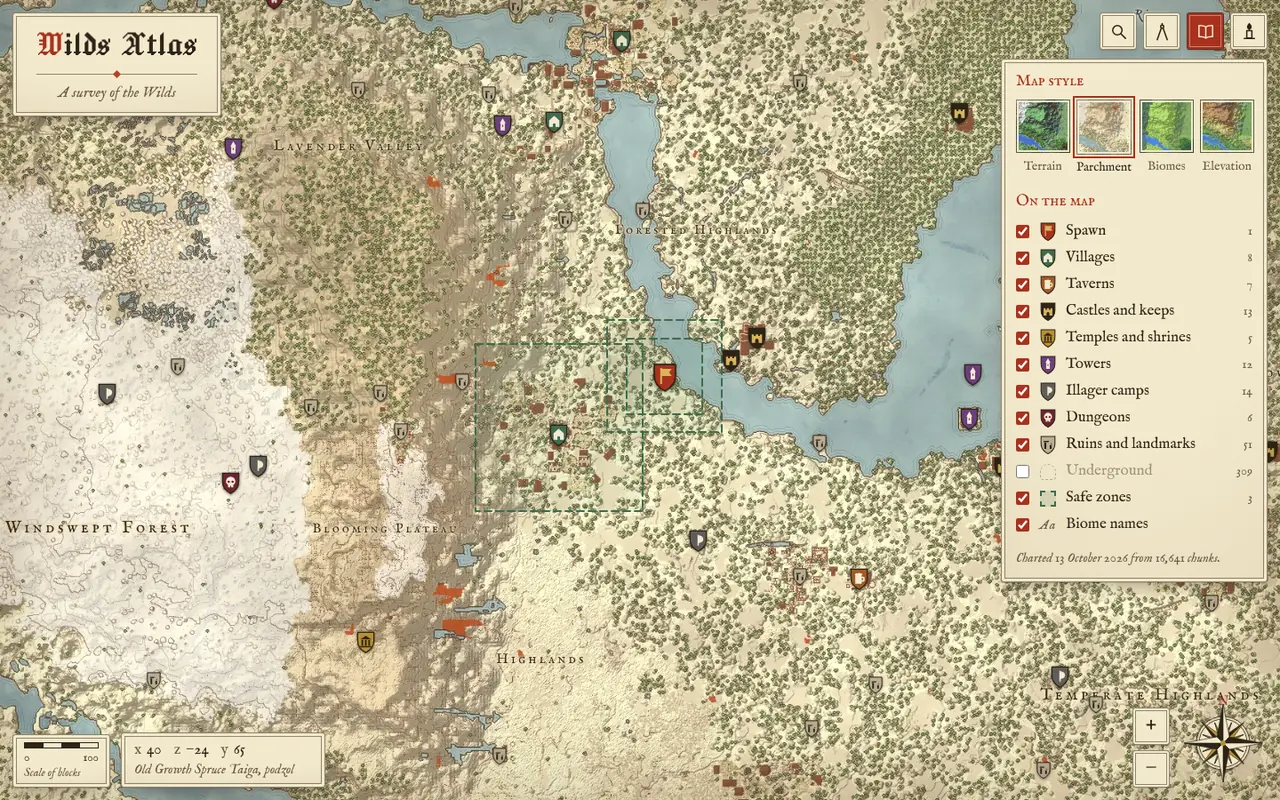
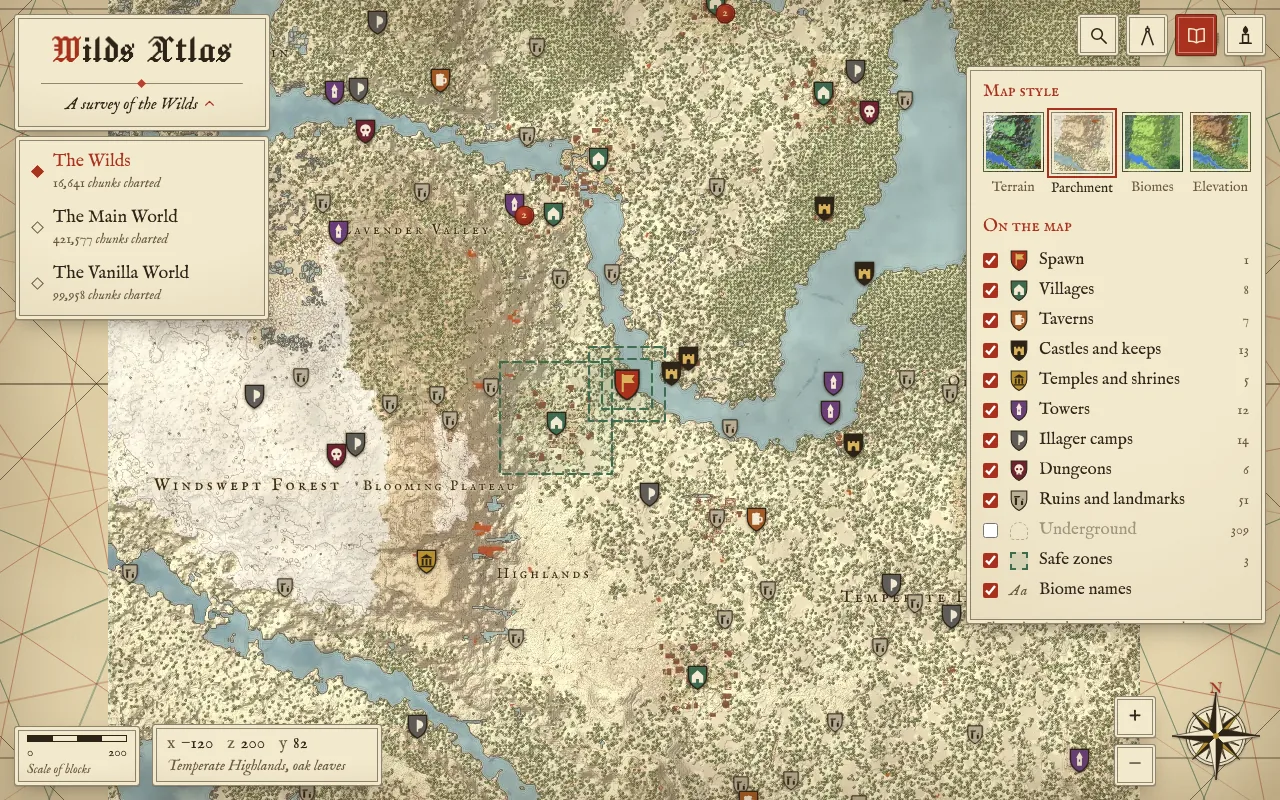
Map all three worlds, with a world menu and a nightly task
- config.toml lists the Wilds, the Main World (TerraformGenerator, sea level 62) and the Vanilla World
- The subtitle under the title opens a menu of the worlds; links name the world (#main/x/z/zoom/style)
- schedule.bat registers a "Wilds Atlas" Windows task that publishes every world at 04:30 each night, without a window, logging to cache/nightly.log
- Heightmap entry width is read from each chunk, so worlds of any height scan correctly
- Proper names for ocean monuments, badlands mineshafts, cold and warm ocean ruins and beached shipwrecks
- Map key previews show land near spawn, or the fullest tile when spawn sits at an edge
- Map data for all three worlds (538,176 chunks)

Claude-Session: https://claude.ai/code/session_01GmA17Z5FQHq4ACirFwPJaQ

diff --git a/web/src/ui.ts b/web/src/ui.ts
@@ -60,13 +60,33 @@ export function ui(atlas: Atlas) {
   $('t-measure').onclick = () => ruler.toggle()
   search(atlas, $<HTMLInputElement>('q'), $('results'), () => openFind(false))
 
-  const nav = $('worlds')
-  nav.hidden = index.worlds.length < 2
-  nav.innerHTML = index.worlds.map((w) => `<button type="button" data-id="${esc(w.id)}">${esc(w.name)}</button>`).join('')
-  nav.onclick = (e) => {
-    const id = (e.target as HTMLElement).closest('button')?.dataset.id
-    if (id) atlas.open(id)
+  // the subtitle names the world on show and opens the list of worlds; the names share a grid cell so the width holds
+  const realm = $('realm'), menu = $('worlds'), many = index.worlds.length > 1
+  const survey = (name: string) => index.subtitle.replace('{world}', name.replace(/^The /, 'the '))
+  const stack = `<span class="stack"><span class="on">${realm.innerHTML}</span>` +
+    index.worlds.map((w) => `<span data-id="${esc(w.id)}">${esc(survey(w.name))}${many ? ICON.chevron : ''}</span>`).join('') + '</span>'
+  realm.innerHTML = many ? `<button type="button" aria-expanded="false" aria-controls="worlds" title="Choose a world">${stack}</button>` : stack
+  menu.innerHTML = index.worlds.map((w) =>
+    `<li><button type="button" data-id="${esc(w.id)}">${esc(w.name)}<small>${num(w.chunks)} chunks charted</small></button></li>`).join('')
+  const pick = realm.querySelector('button')
+  const list = (open: boolean) => {
+    menu.hidden = !open
+    pick?.setAttribute('aria-expanded', String(open))
   }
+  if (pick) pick.onclick = () => list(menu.hidden !== false)
+  menu.onclick = (e) => {
+    const id = (e.target as HTMLElement).closest('button')?.dataset.id
+    if (!id) return
+    list(false)
+    pick?.focus()
+    atlas.open(id)
+  }
+  addEventListener('pointerdown', (e) => !menu.hidden && !realm.parentElement!.contains(e.target as Node) && list(false))
+  addEventListener('keydown', (e) => {
+    if (e.key !== 'Escape' || menu.hidden) return
+    list(false)
+    pick?.focus()
+  })
 
   const styles = $('styles')
   styles.onclick = (e) => {
@@ -89,9 +109,17 @@ export function ui(atlas: Atlas) {
 
   atlas.addEventListener('world', () => {
     const w = atlas.world!
-    nav.querySelectorAll('button').forEach((b) => b.setAttribute('aria-current', String(b.dataset.id === w.id)))
-    const k = Math.min(2, -w.minZoom), s = w.spawn ?? [0, 0, 0]
-    const tile = `${Math.floor(s[0] / 256) >> k}_${Math.floor(s[2] / 256) >> k}`
+    realm.querySelectorAll<HTMLElement>('.stack > span').forEach((s) => s.classList.toggle('on', s.dataset.id === w.id))
+    menu.querySelectorAll('button').forEach((b) => b.setAttribute('aria-current', String(b.dataset.id === w.id)))
+    if (ruler.active) ruler.toggle(false)
+    // style previews show the land around spawn, or the fullest stretch of land when spawn is near the edge
+    const k = Math.min(2, -w.minZoom), s = w.spawn ?? [0, 0, 0], land = new Map<string, number>()
+    for (const t of w.tiles) {
+      const [x, y] = t.split('_').map(Number), key = `${x >> k}_${y >> k}`
+      land.set(key, (land.get(key) ?? 0) + 1)
+    }
+    const home = `${Math.floor(s[0] / 256) >> k}_${Math.floor(s[2] / 256) >> k}`
+    const tile = land.get(home) === 4 ** k ? home : [...land].reduce((a, b) => (b[1] > a[1] ? b : a), [home, 0])[0]
     styles.innerHTML = w.styles.map((st) =>
       `<button type="button" role="radio" data-style="${st}" aria-checked="${st === atlas.style}">` +
       `<i style="background-image:url('maps/${w.id}/tiles/${st}/${-k}/${tile}.webp?v=${w.v}')"></i>${STYLES[st] ?? st}</button>`).join('')
@@ -103,7 +131,7 @@ export function ui(atlas: Atlas) {
       (w.zones.length ? row('zones', '<i class="glyph ward"></i>', 'Safe zones', w.zones.length) : '') +
       (w.labels.length ? row('labels', '<i class="glyph name">Aa</i>', 'Biome names') : '')
     sync()
-    const when = new Date(index.updated)
+    const when = new Date(w.v * 1000)
     $('survey').textContent = `Charted ${when.toLocaleDateString('en-GB', { day: 'numeric', month: 'long', year: 'numeric' })} from ${num(w.chunks)} chunks.`
   })
 }

diff --git a/web/src/style.css b/web/src/style.css
@@ -123,9 +123,23 @@ body::after {
 .cartouche p { margin: 6px 0 0; font-style: italic; color: var(--ink-soft); text-wrap: balance; }
 .blank .cartouche { top: 50%; left: 50%; transform: translate(-50%, -50%); max-width: min(440px, calc(100vw - 32px)); }
 .blank .dock, .blank .foot { display: none; }
-#worlds { display: flex; flex-wrap: wrap; justify-content: center; gap: 2px 12px; margin-top: 8px; }
-#worlds button { padding: 2px 4px; border: 0; background: none; color: var(--ink-soft); font: 16px var(--caps); }
-#worlds button[aria-current='true'] { color: var(--rubric); text-decoration: underline 1px; text-underline-offset: 4px; }
+
+/* the world list, unrolled from the subtitle */
+.stack { display: inline-grid; }
+.stack > span { grid-area: 1 / 1; visibility: hidden; }
+.stack > .on { visibility: visible; }
+#realm button { margin: -2px -6px; padding: 2px 6px; border: 0; border-radius: 2px; background: none; }
+#realm button:hover, #realm [aria-expanded='true'] { color: var(--ink); }
+#realm svg { width: 17px; height: 17px; margin-left: 3px; vertical-align: -3px; color: var(--rubric); transition: transform 0.2s; }
+#realm [aria-expanded='true'] svg { transform: rotate(180deg); }
+#worlds { position: absolute; top: calc(100% + 6px); left: 0; min-width: 100%; margin: 0; padding: 7px; list-style: none; text-align: left; animation: unroll 0.16s ease-out; }
+#worlds button { display: grid; grid-template-columns: 10px 1fr; align-items: center; gap: 0 11px; width: 100%; padding: 6px 14px 7px 9px; border: 0; border-radius: 2px; background: none; font-size: 18px; text-align: left; white-space: nowrap; }
+#worlds button::before { content: ''; grid-row: span 2; justify-self: center; width: 7px; height: 7px; border: 1.4px solid var(--ink-soft); transform: rotate(45deg); }
+#worlds small { grid-column: 2; color: var(--ink-soft); font-size: 14px; font-style: italic; }
+#worlds button:hover, #worlds button:focus-visible { background: rgb(168 50 30 / 0.09); }
+#worlds [aria-current='true'] { color: var(--rubric); }
+#worlds [aria-current='true']::before { border-color: var(--rubric); background: var(--rubric); }
+@keyframes unroll { from { opacity: 0; transform: translateY(-5px); } }
 
 /* tools and panels, top right */
 .dock {

diff --git a/web/src/atlas.ts b/web/src/atlas.ts
@@ -38,6 +38,7 @@ export class Atlas extends EventTarget {
   style = store.get('style', 'parchment')
   private tiles?: Tiles
   private have: Set<string>[] = []
+  private want?: string
 
   constructor(el: HTMLElement, readonly index: Index, readout: HTMLElement) {
     super()
@@ -92,8 +93,11 @@ export class Atlas extends EventTarget {
 
   /** Swap in another world; `place` sets the view before anything that needs a map position is drawn. */
   private async load(id: string, place: (w: World) => void) {
+    this.want = id
     const w = await getJSON<World>(`maps/${id}/world.json`)
+    if (this.want !== id) return  // another world was picked meanwhile
     const z0 = w.tiles.map((t) => t.split('_').map(Number))
+    this.map.closePopup()
     this.world = w
     this.have = Array.from({ length: 1 - w.minZoom }, (_, k) => new Set(z0.map(([x, y]) => `${x >> k}_${y >> k}`)))
     this.map.setMinZoom(w.minZoom - 1)

diff --git a/web/index.html b/web/index.html
@@ -3,7 +3,7 @@
 <head>
   <meta charset="utf-8">
   <meta name="viewport" content="width=device-width, initial-scale=1, viewport-fit=cover">
-  <meta name="description" content="A living map of the Wilds: its villages, taverns, keeps and dungeons.">
+  <meta name="description" content="A living map of our Minecraft worlds: their villages, taverns, keeps and dungeons.">
   <meta name="theme-color" content="#e9dab2">
   <link rel="icon" href="./favicon.svg" type="image/svg+xml">
   <title>Wilds Atlas</title>
@@ -18,7 +18,7 @@
   <header class="cartouche sheet">
     <h1 id="title">Wilds Atlas</h1>
     <p id="realm">Unrolling the chart…</p>
-    <nav id="worlds" aria-label="Worlds" hidden></nav>
+    <ul id="worlds" class="sheet" aria-label="Worlds" hidden></ul>
   </header>
 
   <div class="dock">

diff --git a/web/src/icons.ts b/web/src/icons.ts
@@ -65,5 +65,5 @@ export const ICON = {
   measure: icon('<path d="M12 2.5v2"/><circle cx="12" cy="6.3" r="1.8"/><path d="M11 7.9 6.5 20.5M13 7.9l4.5 12.6M6.5 20.5l-.4 1M17.5 20.5l.4 1"/>'),
   key: icon('<path d="M12 6.6C10 5.3 7.4 4.8 4 5.1v13c3.4-.3 6 .2 8 1.5 2-1.3 4.6-1.8 8-1.5v-13c-3.4-.3-6 .2-8 1.5zM12 6.6v13"/>'),
   candle: icon('<path d="M9 11h6v8.5H9zM6 20h12M12 11V9.4"/><path d="M12 2.8c1.8 2 2.4 3.3 1.9 4.6-.3.9-1 1.5-1.9 1.5s-1.6-.6-1.9-1.5c-.5-1.3.1-2.6 1.9-4.6z" fill="currentColor"/>'),
-  close: icon('<path d="M6.5 6.5l11 11M17.5 6.5l-11 11"/>'),
+  chevron: icon('<path d="M6.5 9.5 12 15l5.5-5.5"/>'),
 }

diff --git a/web/src/main.ts b/web/src/main.ts
@@ -13,7 +13,6 @@ try {
   const index = await getJSON<Index>('maps/index.json')
   if (!index.worlds.length) throw new Error('404')
   document.title = $('title').textContent = index.title
-  $('realm').textContent = index.subtitle
   const atlas = new Atlas($('map'), index, $('readout'))
   ui(atlas)
   const view = atlas.parse(location.hash)

diff --git a/web/src/types.ts b/web/src/types.ts
@@ -39,4 +39,4 @@ export interface World {
   chunks: number
 }
 
-export interface Index { title: string; subtitle: string; updated: string; worlds: { id: string; name: string }[] }
+export interface Index { title: string; subtitle: string; updated: string; worlds: { id: string; name: string; v: number; chunks: number }[] }

diff --git a/tools/atlas.py b/tools/atlas.py
@@ -3,6 +3,7 @@
 
   python tools/atlas.py build [world ...] [--full]   render into web/public/maps (cached, incremental)
   python tools/atlas.py publish [--full]             build, then push the data and redeploy the site
+  schedule.bat                                       run publish every night (Windows)
 """
 import argparse
 import json
@@ -130,7 +131,7 @@ def build_world(w, server, cfg, jobs, full):
     iidx = {b: i for i, b in enumerate(st['biomes'])}
 
     with ProcessPoolExecutor(jobs) as ex:
-        futs = {ex.submit(scan.scan_region, files[k], w['min_y'], w['height']): k for k in todo}
+        futs = {ex.submit(scan.scan_region, files[k], w['min_y']): k for k in todo}
         for n, fut in enumerate(as_completed(futs), 1):
             k = futs[fut]
             a, blocks, biomes, starts, chunks = fut.result()
@@ -221,7 +222,7 @@ def build_world(w, server, cfg, jobs, full):
     (out / 'world.json').write_text(json.dumps(meta, separators=(',', ':')), 'utf-8')
     log(f"  {w['id']}: {meta['chunks']:,} chunks, {len(tiles)} tiles, {len(marks)} structures, "
         f"{len(labels)} labels ({time.time() - t0:.0f}s)")
-    return {'id': w['id'], 'name': w['name'], 'v': st['v']}
+    return {'id': w['id'], 'name': w['name'], 'v': st['v'], 'chunks': meta['chunks']}
 
 
 def build(cfg, server, worlds, only, jobs, full):
@@ -247,7 +248,9 @@ def build(cfg, server, worlds, only, jobs, full):
 # ---------- publish ----------
 
 def git(*args, env=None, cwd=ROOT, check=True, quiet=True):
-    r = subprocess.run(['git', *args], cwd=cwd, env=env, text=True, capture_output=quiet)
+    io = {'capture_output': True} if quiet else {'stdout': sys.stdout, 'stderr': sys.stderr}
+    no_window = getattr(subprocess, 'CREATE_NO_WINDOW', 0)  # the nightly task runs without a console
+    r = subprocess.run(['git', *args], cwd=cwd, env=env, text=True, creationflags=no_window, **io)
     if check and r.returncode:
         sys.exit(f"git {' '.join(args)} failed:\n{(r.stderr or '').strip()}")
     return (r.stdout or '').strip()
@@ -290,7 +293,10 @@ def main():
     ap.add_argument('-c', '--config', default=ROOT / 'config.toml')
     ap.add_argument('-j', '--jobs', type=int, default=max(1, (os.cpu_count() or 2) // 2), help='worker processes')
     ap.add_argument('--full', action='store_true', help='ignore the cache and redo everything')
+    ap.add_argument('--log', help='write progress and errors to this file (for the nightly task)')
     args = ap.parse_args()
+    if args.log:
+        sys.stdout = sys.stderr = open(args.log, 'w', encoding='utf-8')
     cfg, server, worlds = load_config(args.config)
     index = build(cfg, server, worlds, set(args.worlds) if args.command == 'build' else set(), args.jobs, args.full)
     if args.command == 'publish':

diff --git a/tools/scan.py b/tools/scan.py
@@ -118,10 +118,9 @@ def pick(secs, ys, key, pal):
     return out
 
 
-def scan_region(path, min_y=-64, height=384):
+def scan_region(path, min_y=-64):
     """-> (arrays with region-local palette indices, block names, biome names, structures [id, x0, y0, z0, x1, y1, z1, pieces], chunks)"""
     path = Path(path)
-    bits = max(1, height.bit_length())
     a = {'surf': np.full((512, 512), MISSING, np.int16), 'floor': np.full((512, 512), MISSING, np.int16),
          **{k: np.zeros((512, 512), np.uint16) for k in ('top', 'flo', 'bio')}}
     blocks, biomes, starts, n = {'minecraft:air': 0}, {'minecraft:void': 0}, [], 0
@@ -134,6 +133,7 @@ def scan_region(path, min_y=-64, height=384):
         hm = c.get('Heightmaps', {})
         if c.get('Status') != 'minecraft:full' or 'WORLD_SURFACE' not in hm or 'OCEAN_FLOOR' not in hm:
             continue
+        bits = 64 // -(-256 // len(hm['WORLD_SURFACE']))  # entry width follows the world height
         ws = packed(hm['WORLD_SURFACE'], bits, idx) + min_y - 1
         of = packed(hm['OCEAN_FLOOR'], bits, idx) + min_y - 1
         secs = {int(s['Y']): s for s in c.get('sections', [])}

diff --git a/tools/world.py b/tools/world.py
@@ -23,7 +23,8 @@ CATS = (('ruin', ('ruin', 'rubble', 'remnant')),
                      'sculk', 'mineshaft', 'mining', 'refinery', 'chamber', 'deposit')))
 QUALIFIERS = ('dark_oak', 'pale_oak', 'oak', 'spruce', 'birch', 'jungle', 'acacia', 'mangrove', 'cherry', 'bamboo',
               'plains', 'desert', 'savanna', 'snowy', 'taiga', 'swamp', 'badlands', 'mountain', 'ocean', 'beach',
-              'forest', 'grassy', 'nether', 'surface', 'underground')
+              'forest', 'grassy', 'nether', 'surface', 'underground', 'cold', 'warm', 'beached')
+PROPER = {'minecraft:monument': 'Ocean Monument', 'minecraft:mineshaft_mesa': 'Badlands Mineshaft'}
 SMALL = {'of', 'the', 'and', 'in', 'on', 'a'}
 
 
@@ -32,6 +33,8 @@ def title(words):
 
 
 def structure_name(sid):
+    if sid in PROPER:
+        return PROPER[sid]
     words = [re.sub(r'(?<=[a-z])\d+$', '', w) for w in sid.split(':', 1)[-1].split('/')[-1].split('_') if w]
     for q in sorted(QUALIFIERS, key=len, reverse=True):
         qs = q.split('_')

diff --git a/README.md b/README.md
@@ -1,15 +1,16 @@
 # Wilds Atlas
 
-A map of the Wilds, our medieval RPG Minecraft world, styled like an old chart. It is rendered from the server's region files and hosted on GitHub Pages, so friends only need a link.
+Maps of our medieval RPG Minecraft server, styled like an old chart: the Wilds, the Main World and the Vanilla World. They are rendered from the server's region files and hosted on GitHub Pages, so friends only need a link.
 
 **https://andreyvld.github.io/wilds-atlas/**
 
-![The Wilds Atlas in the parchment style](docs/preview.webp)
+![The Wilds in the parchment style, with the world menu open](docs/preview.webp)
 
+- A map for each world, picked from the menu under the title
 - Four map styles: parchment, terrain, biomes and elevation, from a whole-world view down to single blocks
 - Heraldic markers for villages, taverns, keeps, temples, towers, illager camps, dungeons and ruins, read from the chunks themselves (vanilla, Terralith, Dungeons and Taverns, Structory, ATi, Grim Kingdoms and more), plus spawn, warps, waystones and WorldGuard safe zones
 - Biome names, search, a distance ruler with travel times, and a readout of x, y, z, biome and block under the cursor
-- Shareable links (`#wilds/x/z/zoom/style`), a candlelight dark mode, and phone support
+- Shareable links (`#main/x/z/zoom/style`), a candlelight dark mode, and phone support
 
 The renderer reads only region files and plugin configs. Player positions, inventories, homes and the seed never leave the server.
 
@@ -30,26 +31,24 @@ The renderer reads only region files and plugin configs. Player positions, inven
    pip install -r tools/requirements.txt
    ```
 3. On GitHub, open **Settings → Pages** and set **Source** to **GitHub Actions**.
+4. Double-click `atlas.bat`. The first run draws every world from scratch, which takes a while, and asks you to sign in to GitHub once.
+5. Double-click `schedule.bat`. It adds a Windows scheduled task, "Wilds Atlas", that publishes all the worlds every night at 04:30.
 
 ## Updating the map
 
-Double-click `atlas.bat`, or run:
+The nightly task runs in the background without a window and logs its last run to `cache/nightly.log`. It runs while you are signed in to Windows; if the PC was asleep or off at 04:30, it runs as soon as it can. To update right away, double-click `atlas.bat`, or run:
 
 ```
 python tools/atlas.py publish
 ```
 
-Only regions whose files changed since the last run are read and redrawn: new chunks from Chunky or from exploring, and builds. The site updates a minute or two after the push. Running it while the server is up is fine. Paper writes chunks to disk every few minutes, and `save-all` first catches the rest. Add `--full` to redraw everything.
+Only regions whose files changed since the last run are read and redrawn: new chunks from Chunky or from exploring, and builds. When nothing changed, nothing is pushed. The site updates a minute or two after a push. Running it while the server is up is fine. Paper writes chunks to disk every few minutes, and `save-all` first catches the rest. Add `--full` to redraw everything.
 
-To update every night at 05:00, run this once in a terminal:
-
-```
-schtasks /Create /TN "Wilds Atlas" /SC DAILY /ST 05:00 /TR "cmd /c cd /d D:\minecraft-servers\wilds-atlas && python tools\atlas.py publish > cache\last-publish.log 2>&1"
-```
+`schedule.bat 03:00` moves the nightly run to another time. To remove the task, run `schtasks /Delete /TN "Wilds Atlas" /F`.
 
 ## Settings
 
-`config.toml` holds the title, the server path, the worlds to map and display names for safe zones and warps. The main world and Vanilla are already listed but commented out; uncomment them to give the atlas a world switcher.
+`config.toml` holds the title, the server path, the worlds to map and display names for safe zones and warps. Each `[[worlds]]` entry is one map in the world menu, in the same order; the first is the one the site opens on.
 
 ## Working on the site
 
@@ -66,4 +65,5 @@ npm run dev                        # http://localhost:5173
 | `tools/scan.py` | Region and NBT reader, about 2 ms per chunk |
 | `tools/render.py` | Block and biome colours, the four styles, tile output |
 | `tools/world.py` | Structures, spawn, warps, zones, waystones, biome labels |
-| `web/src/` | The site: map, markers, readout, search and ruler |
+| `tools/schedule.ps1` | The nightly task, set up by `schedule.bat` |
+| `web/src/` | The site: map, world menu, markers, readout, search and ruler |
